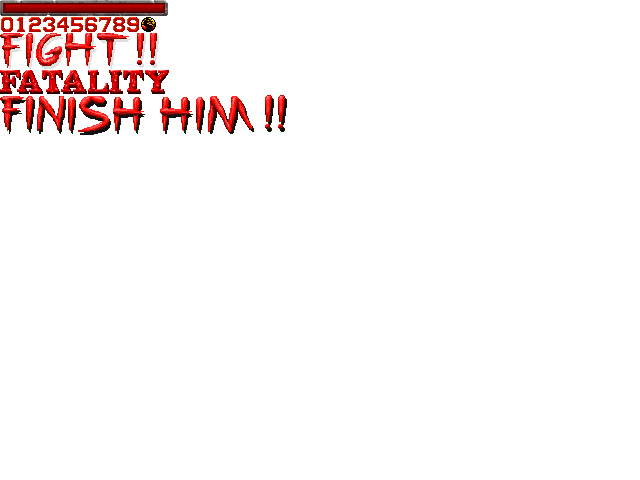
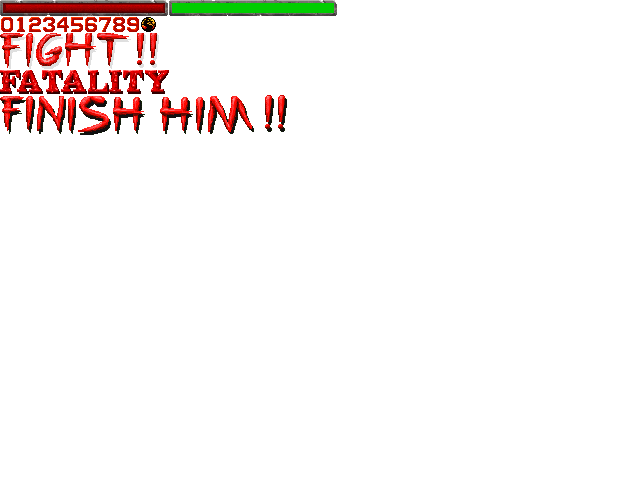
Ajout des barres de vie

Changed region(s): [[0.25, 0.0, 0.5312, 0.0312]]

diff --git a/Kick_Time_Game/Kick_Time_Game/Kick_Time_Game/HudManager.cpp b/Kick_Time_Game/Kick_Time_Game/Kick_Time_Game/HudManager.cpp
@@ -2,6 +2,9 @@
 #include "HudManager_Defines.h"
 #include "GameManager.h"
 
+
+const Position listPositions[NUMBER_FIGHTERS] = { Position(LIFE_BAR_POSITION_P1_X, LIFE_BAR_POSITION_P1_Y), Position(LIFE_BAR_POSITION_P2_X, LIFE_BAR_POSITION_P2_Y)};
+
 HudManager::HudManager(void)
 {
 	this->doRenderLifeBar = true;
@@ -27,14 +30,30 @@ void HudManager::renderHudManager()
 	if (this->doRenderTime)
 		this->renderTime();
 	if (this->doRenderLifeBar)
-	{
-		for(int i = 0; i < NUMBER_FIGHTERS; ++i)
-			this->renderLifeBar(i);
-	}
+		this->renderLifeBar();
 }
 
-void HudManager::renderLifeBar(int indexCharacter)
+void HudManager::renderLifeBar()
 {
+	vector<Character*> * listCharacters = GameManager::getInstance()->getCharacterManager()->getCharacters();
+	Character * character;
+	int percent;
+	for(unsigned int i = 0; i < listCharacters->size(); ++i)
+	{
+		character = listCharacters->at(i);
+		percent = (int)((LIFE_WIDTH * character->getHp()) / character->getTotalHp());
+		// Empty life bar
+		this->spriteHUD->setTextureRect(sf::IntRect(LIFE_BAR_X, LIFE_BAR_Y, LIFE_BAR_WIDTH, LIFE_BAR_HEIGHT));
+		this->spriteHUD->setPosition((float)listPositions[i].getX(), (float)listPositions[i].getY());
+		GameManager::getInstance()->getRenderManager()->getWindow()->draw(*this->spriteHUD);
+		//Life
+		this->spriteHUD->setTextureRect(sf::IntRect(LIFE_X, LIFE_Y, percent, LIFE_HEIGHT));
+		if (i % 2)
+			this->spriteHUD->setPosition((float)listPositions[i].getX() + LIFE_FRAME_SIZE_X + LIFE_WIDTH - percent, (float)listPositions[i].getY() + LIFE_FRAME_SIZE_Y);
+		else
+			this->spriteHUD->setPosition((float)listPositions[i].getX() + LIFE_FRAME_SIZE_X, (float)listPositions[i].getY() + LIFE_FRAME_SIZE_Y);
+		GameManager::getInstance()->getRenderManager()->getWindow()->draw(*this->spriteHUD);
+	}
 }
 
 void HudManager::renderTime()

diff --git a/Kick_Time_Game/Kick_Time_Game/Kick_Time_Game/Character.cpp b/Kick_Time_Game/Kick_Time_Game/Kick_Time_Game/Character.cpp
@@ -14,6 +14,8 @@ Character::Character(void)
 	this->spriteCharacter = new sf::Sprite();
 	this->posCharacterX = SCREEN_SIZE_WIDTH / 2;
 	this->posCharacterY = SCREEN_SIZE_HEIGHT;
+	this->totalHp = 100;
+	this->hp = 50;
 }
 
 Character::~Character(void)
@@ -76,10 +78,18 @@ void Character::renderCharacter()
 	int height = this->animation->getAnimationDataHeight();
 
 	this->spriteCharacter->setTexture(*GameManager::getInstance()->getTextureManager()->getTexture(this->animation->getAnimationDataName()));
-	
 	this->spriteCharacter->setTextureRect(sf::IntRect(posX, posY, width, height));
-
 	this->spriteCharacter->setPosition(this->posCharacterX, this->posCharacterY - height);
 
 	GameManager::getInstance()->getRenderManager()->getWindow()->draw(*this->spriteCharacter);
+}
+
+int Character::getTotalHp()
+{
+	return this->totalHp;
+}
+
+int Character::getHp()
+{
+	return this->hp;
 }

diff --git a/Kick_Time_Game/Kick_Time_Game/Kick_Time_Game/Timer.cpp b/Kick_Time_Game/Kick_Time_Game/Kick_Time_Game/Timer.cpp
@@ -5,14 +5,14 @@
 Timer::Timer(void)
 {
 	this->reverseTime = false;
-	this->timerStart = 0;
+	this->timerLimit = 0;
 	this->timerFrame = 0;
 }
 
-Timer::Timer(bool reverseTime, int timerStart)
+Timer::Timer(bool reverseTime, int timerLimit)
 {
 	this->reverseTime = reverseTime;
-	this->timerStart = timerStart;
+	this->timerLimit = timerLimit;
 	this->timerFrame = 0;
 }
 
@@ -28,7 +28,13 @@ void Timer::updateTimer()
 int Timer::getTime()
 {
 	if (this->reverseTime)
-		return this->timerStart - (int)this->timerFrame / NUMBER_FRAME_PER_SECOND;
+	{
+		int time = this->timerLimit - (int)this->timerFrame / NUMBER_FRAME_PER_SECOND;
+		return time < 0 ? 0 : time ;
+	}
 	else
-		return this->timerStart + (int)this->timerFrame / NUMBER_FRAME_PER_SECOND;
+	{
+		int time = (int)this->timerFrame / NUMBER_FRAME_PER_SECOND;
+		return time > this->timerLimit ? this->timerLimit : time ;
+	}
 }

diff --git a/Kick_Time_Game/Kick_Time_Game/Kick_Time_Game/CharacterManager.cpp b/Kick_Time_Game/Kick_Time_Game/Kick_Time_Game/CharacterManager.cpp
@@ -6,7 +6,7 @@
 
 CharacterManager::CharacterManager(void)
 {
-	this->characterList = new vector<Character>();
+	this->characterList = new vector<Character*>();
 }
 
 CharacterManager::~CharacterManager(void)
@@ -26,13 +26,18 @@ void CharacterManager::updateCharacterManager()
 
 void CharacterManager::addCharacter()
 {
-	this->characterList->push_back(*new Character());
+	this->characterList->push_back(new Character());
+}
+
+vector<Character*>* CharacterManager::getCharacters()
+{
+	return this->characterList;
 }
 
 void CharacterManager::renderCharacterManager()
 {
 	for(unsigned int i = 0; i < this->characterList->size(); ++i)
 	{
-		this->characterList->at(i).renderCharacter();
+		this->characterList->at(i)->renderCharacter();
 	}
 }

diff --git a/Kick_Time_Game/Kick_Time_Game/Kick_Time_Game/HudManager_Defines.h b/Kick_Time_Game/Kick_Time_Game/Kick_Time_Game/HudManager_Defines.h
@@ -4,7 +4,7 @@
 // Position Life bar
 #define LIFE_BAR_POSITION_P1_X	10
 #define LIFE_BAR_POSITION_P1_Y	20
-#define LIFE_BAR_POSITION_P2_X	210
+#define LIFE_BAR_POSITION_P2_X	221
 #define LIFE_BAR_POSITION_P2_Y	20
 
 // Position Time
@@ -22,6 +22,16 @@
 #define LIFE_BAR_Y				0
 #define LIFE_BAR_WIDTH			168
 #define LIFE_BAR_HEIGHT			16
+
+// Life frame
+#define LIFE_FRAME_SIZE_X		3
+#define LIFE_FRAME_SIZE_Y		3
+
+// Life
+#define LIFE_X					173
+#define LIFE_Y					3
+#define LIFE_WIDTH				162
+#define LIFE_HEIGHT				10
 
 // Time
 #define TIME_X					0

diff --git a/Kick_Time_Game/Kick_Time_Game/Kick_Time_Game/CharacterManager.h b/Kick_Time_Game/Kick_Time_Game/Kick_Time_Game/CharacterManager.h
@@ -9,13 +9,14 @@ using namespace std;
 class CharacterManager
 {
 private:
-	vector<Character> * characterList;
+	vector<Character*> * characterList;
 public:
 	CharacterManager(void);
 	~CharacterManager(void);
 	void initializeCharacterManager();
 	void updateCharacterManager();
 	void addCharacter();
+	vector<Character*>* getCharacters();
 	void renderCharacterManager();
 };
 

diff --git a/Kick_Time_Game/Kick_Time_Game/Kick_Time_Game/Character.h b/Kick_Time_Game/Kick_Time_Game/Kick_Time_Game/Character.h
@@ -13,6 +13,8 @@ private:
 	int posCharacterY;
 	sf::Sprite * spriteCharacter;
 	int state;
+	int totalHp;
+	int hp;
 	void updateStand();
 	void updateJump();
 
@@ -21,6 +23,8 @@ public:
 	~Character(void);
 	void updateCharacter();
 	void renderCharacter();
+	int getTotalHp();
+	int getHp();
 };
 
 #endif

diff --git a/Kick_Time_Game/Kick_Time_Game/Kick_Time_Game/Timer.h b/Kick_Time_Game/Kick_Time_Game/Kick_Time_Game/Timer.h
@@ -5,12 +5,12 @@ class Timer
 {
 private:
 	bool reverseTime;
-	int timerStart;
+	int timerLimit;
 	int timerFrame;
 
 public:
 	Timer();
-	Timer(bool reverseTime, int timerStart);
+	Timer(bool reverseTime, int timerLimit);
 	~Timer(void);
 	void updateTimer();
 	int getTime();

diff --git a/Kick_Time_Game/Kick_Time_Game/Kick_Time_Game/Position.cpp b/Kick_Time_Game/Kick_Time_Game/Kick_Time_Game/Position.cpp
@@ -17,7 +17,7 @@ Position::~Position(void)
 {
 }
 
-int Position::getX()
+int Position::getX() const
 {
 	return this->x;
 }
@@ -27,7 +27,7 @@ void Position::setX(int x)
 	this->x = x;
 }
 
-int Position::getY()
+int Position::getY() const
 {
 	return this->y;
 }

diff --git a/Kick_Time_Game/Kick_Time_Game/Kick_Time_Game/GameManager.cpp b/Kick_Time_Game/Kick_Time_Game/Kick_Time_Game/GameManager.cpp
@@ -58,6 +58,7 @@ void GameManager::initializeGameManager()
 
 	// Initialise test
 	this->characterManager->addCharacter();
+	this->characterManager->addCharacter();
 	this->matchManager->setMatch(new Match());
 }
 

diff --git a/Kick_Time_Game/Kick_Time_Game/Kick_Time_Game/Position.h b/Kick_Time_Game/Kick_Time_Game/Kick_Time_Game/Position.h
@@ -10,9 +10,9 @@ public:
 	Position(void);
 	Position(int x, int y);
 	~Position(void);
-	int getX();
+	int getX() const;
 	void setX(int x);
-	int getY();
+	int getY() const;
 	void setY(int y);
 };
 

diff --git a/Kick_Time_Game/Kick_Time_Game/Kick_Time_Game/HudManager.h b/Kick_Time_Game/Kick_Time_Game/Kick_Time_Game/HudManager.h
@@ -9,7 +9,7 @@ private:
 	sf::Sprite * spriteHUD;
 	bool doRenderLifeBar;
 	bool doRenderTime;
-	void renderLifeBar(int indexCharacter);
+	void renderLifeBar();
 	void renderTime();
 
 public:
